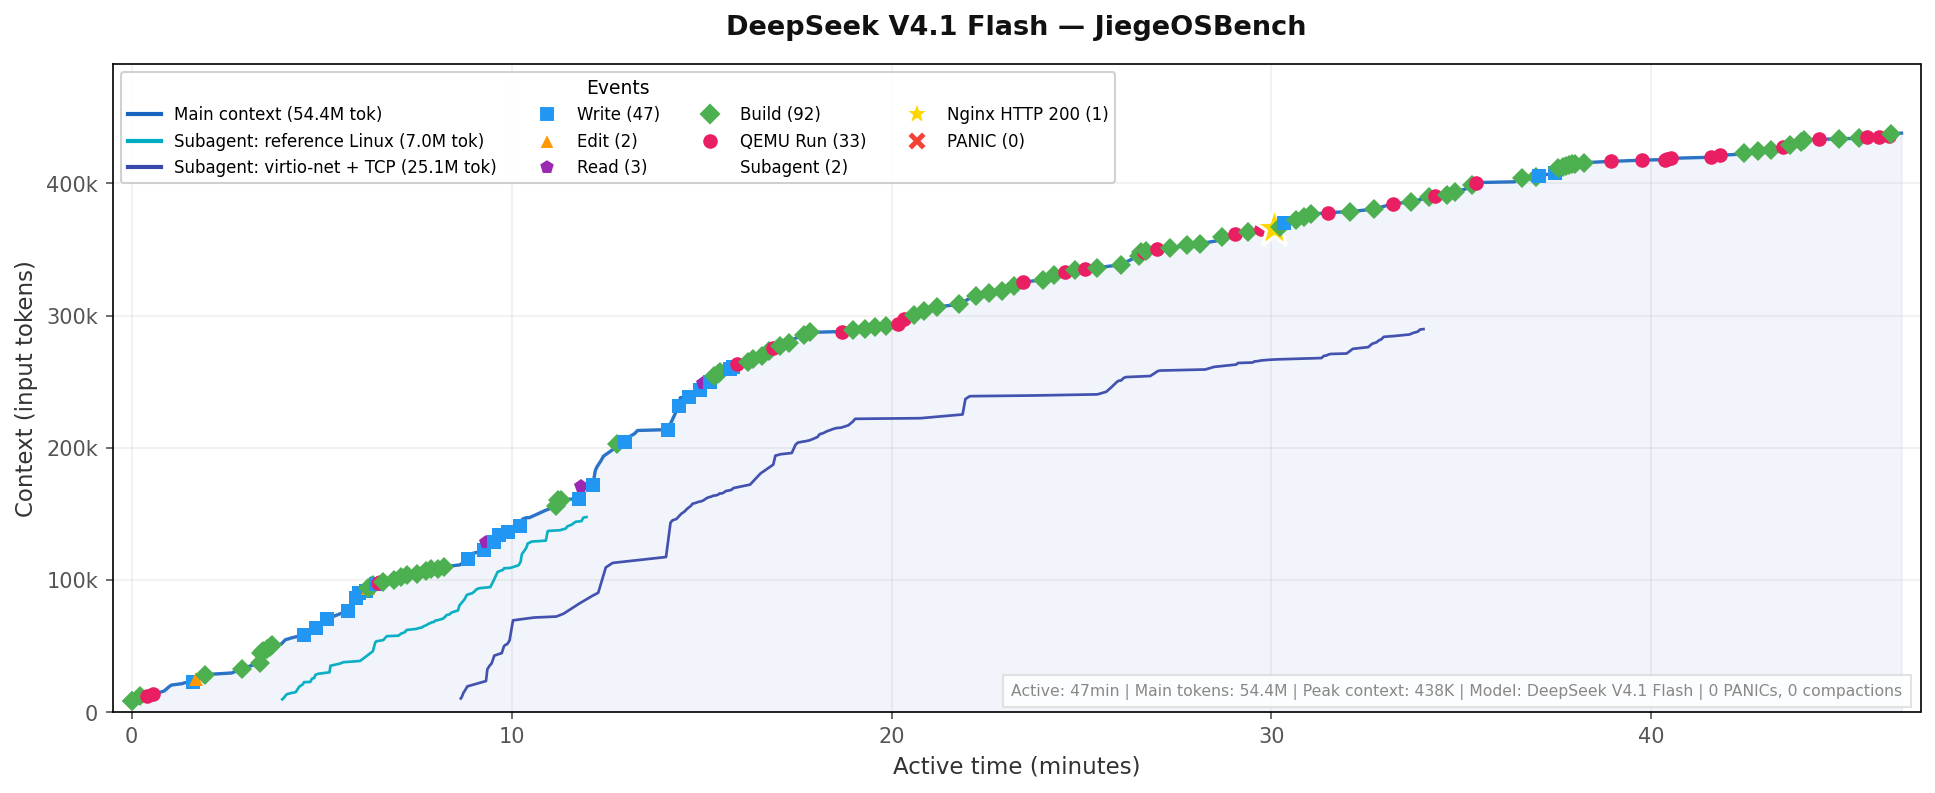
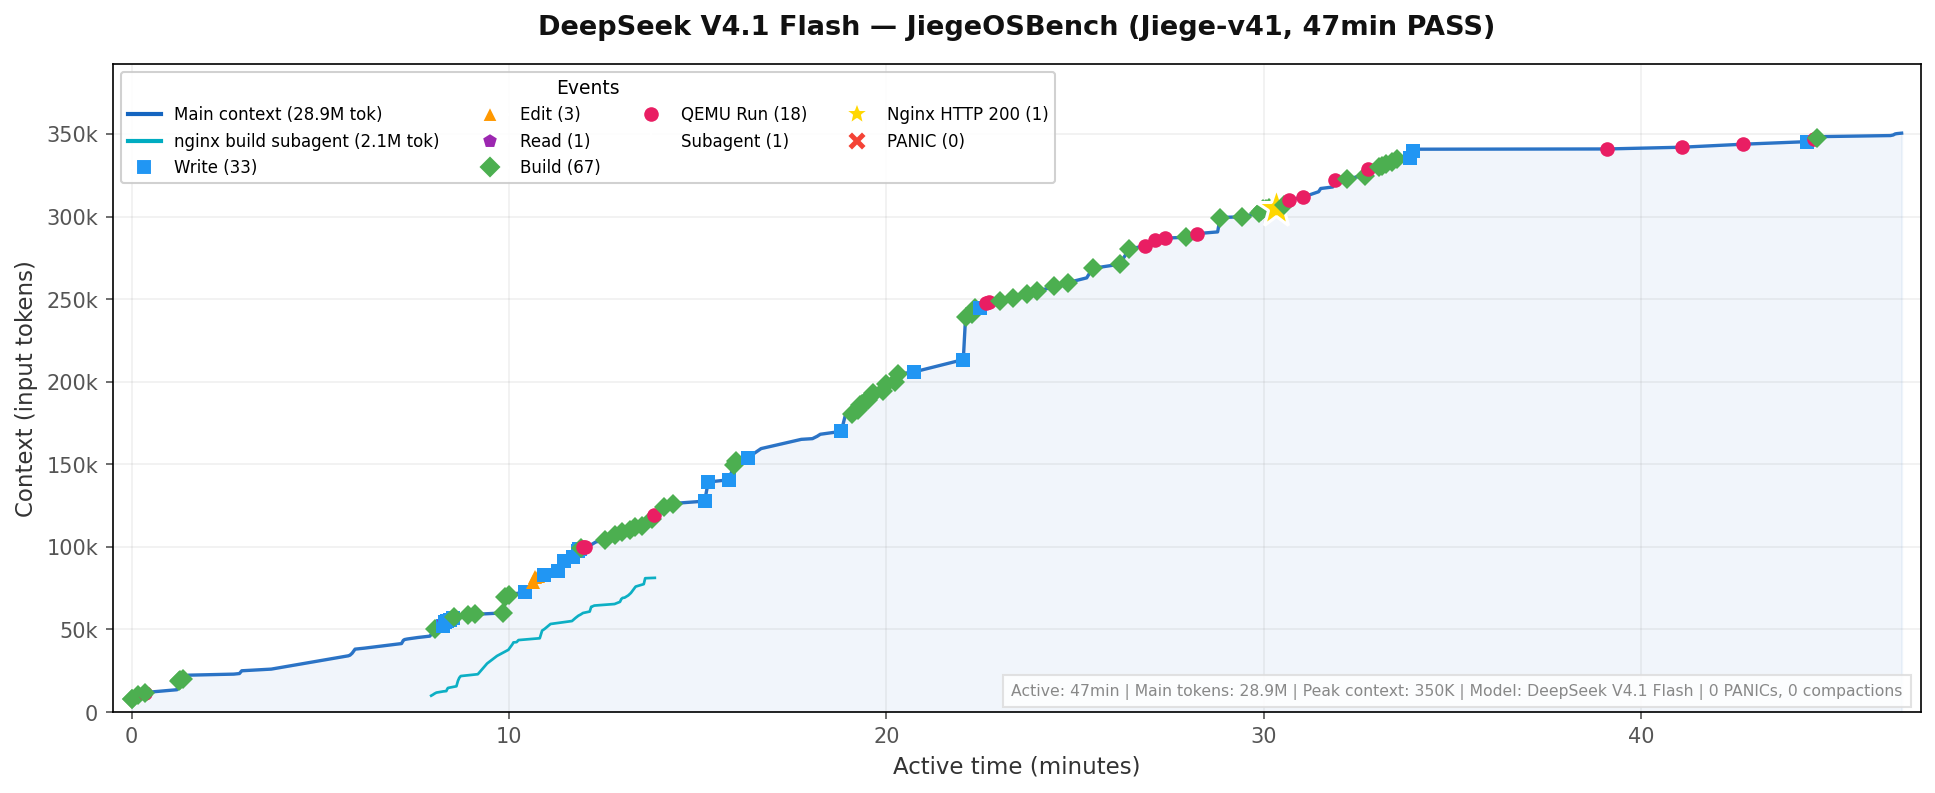
DeepSeek V4.1 Flash: replace the record with the 2026-09-10 static-musl run
New best run of the model: same 30min first HTTP 200 / 47min total, but
cheaper and leaner than the 2026-09-08 glibc run it replaces — $0.61 ->
$0.28, 438K -> 350K peak context, 126 -> 36 QEMU boots, 86.5M -> 31.0M
tokens, 437 -> 203 steps, still zero panics and zero compactions.

Took the static musl cross-compile route (official nginx 1.27.4 source
built by zig cc into one static riscv64 ELF) against a 6,283-line
from-scratch no_std Rust kernel, with a single background subagent
building nginx in 5.9min while the main agent wrote the kernel. Section
rewritten with the new run's milestones and a new timeline chart.

diff --git a/README.md b/README.md
@@ -16,7 +16,7 @@ OS kernel from scratch — running an unmodified Linux nginx binary on QEMU, ser
 | # | Model | Effort | Harness | First HTTP 200 | Total | Context | Cost | QEMU runs | Test date | Tier |
 |---|-------|--------|---------|------------|-------|---------|------|-----------|-----------|------|
 | 🏅 | GPT-6 Astra | High | Codex | 6min | 9min | 83K | $4 | 9 | 2026-09-05 | 👑 Jiege |
-| 🥈 | DeepSeek V4.1 Flash | High | DSH | 30min | 47min | 438K | $0.61 | 126 | 2026-09-08 | 🧠 Intelligent Jiege |
+| 🥈 | DeepSeek V4.1 Flash | High | DSH | 30min | 47min | 350K | $0.28 | 36 | 2026-09-10 | 🧠 Intelligent Jiege |
 | 🥉 | GPT 5.6 Sol | High | Codex | 33min | 49min | 222K | $14 | 29 | 2026-07-11 | 🧠 Intelligent Jiege |
 | 4 | Claude Fable 5 | High | CC | 35min | 41min | 155K | $21 | 4 | 2026-07-05 | 🧠 Intelligent Jiege |
 | 5 | Claude Opus 4.8 | High | CC | 40min | 42min | 230K | $12 | 19 | 2026-09-05 | 🧠 Intelligent Jiege |
@@ -66,24 +66,28 @@ OpenAI Codex (desktop) ran for **~6min** to first HTTP 200 — by far the fastes
 
 ![DeepSeek V4.1 Flash Timeline](figures/deepseek-v4.1-flash-timeline.png)
 
-DeepSeek Harness ran for **~47min** (first HTTP 200 at 30min) with the **standard agent preset** (write/edit/read available) — the fastest DeepSeek run by a wide margin, and the cheapest successful run on the board at **$0.61**. Two background subagents ran in parallel: one booted a reference riscv64 Linux in QEMU to strace the stock nginx (ground-truth syscall ABI), the other implemented the virtio-net + smoltcp TCP stack while the main agent wrote the filesystem, ELF loader, signal and syscall layers. 437 steps across the three agents, 86.5M tokens total, zero kernel panics, zero context compactions. Took the **Ubuntu glibc dynamic-linking route** — the unmodified Ubuntu 24.04 riscv64 nginx 1.24.0 binary (SHA-256 identical to the official `.deb`) running against glibc 2.39 + OpenSSL/PCRE2/zlib.
-
-**How the parallel agents avoided stepping on each other**: the main agent froze the `net` module's public API (16 signatures) and kept ownership of every other file, handing the subagent `kernel/src/net/` alone with the rule that `cargo build` must stay green at all times — no file was ever edited by both agents (the only contention was cargo's own build-directory lock). Because user mode could not run yet, that subagent verified its stack by injecting test code into a *scratch copy* of the kernel: the kernel fetched 300 KB from a host HTTP server over slirp (`GET / HTTP/1.0`) and, in a second test, listened on port 80 and answered a host `curl` — proving TX/RX rings, ARP, TCP handshake, arbitrary segmentation, EOF/FIN and PLIC IRQ delivery with no user-mode process involved. It also found that QEMU 11.1.1 exposes `virtio-net-device` as **legacy MMIO v1** by default (10-byte header, not 12), and implemented both transports.
+DeepSeek Harness ran for **~47min** (first HTTP 200 at 30min) with the **standard agent preset** (write/edit/read available) — the fastest DeepSeek run by a wide margin, and the cheapest successful run on the board at **$0.28**. 158 model steps, 31.0M tokens total (99.6% cache hit), peak context 350K, zero kernel panics, zero context compactions, zero web searches and zero git clones — the 6,283-line `no_std` Rust kernel (Sv39 paging, ELF64 loader, ~150 Linux asm-generic syscalls, ramfs + initramfs, virtio-net + smoltcp + epoll/eventfd/timerfd) is entirely its own. Took the **static musl cross-compile route**: the unmodified official nginx 1.27.4 source built with `zig cc -target riscv64-linux-musl` into a single static riscv64 ELF. It reached HTTP 200 in only ~36 QEMU boots — 12 hand-found bugs, no blind churn.
 
 | Time | Milestone |
 |------|-----------|
-| 00:04 | Reference riscv64 Linux env subagent launched — strace of the stock nginx as ground truth |
-| 00:07 | Kernel boots under QEMU; fs, ELF loader and syscall layers written |
-| 00:09 | virtio-net + TCP subagent launched; net stack built in parallel |
-| 00:16 | Kernel launches the unmodified Ubuntu nginx binary |
-| 00:18 | Boot-stack static and trap-frame prologue bugs fixed |
-| 00:22 | FP state (`sstatus.FS`) enabled and saved across context switches |
-| 00:24 | initramfs duplicate-directory and fork page-table-switch bugs fixed |
-| 00:29 | epoll_event layout bug fixed |
-| 00:30 | First HTTP 200 OK — `Server: nginx/1.24.0 (Ubuntu)` 🎉 |
-| 00:33 | SIGCHLD delivery + sigsuspend semantics fixed; graceful shutdown verified |
-| 00:44 | Scheduler starvation fixed (LIFO ready queue → FIFO) |
-| 00:47 | Goal complete — clean rebuild + binary byte-verification |
+| 00:01 | Environment recon, goal set — rustc + `riscv64gc-unknown-linux-musl` present, zig installable, crates.io reachable |
+| 00:03 | zig installed; nginx/pcre2/zlib sources fetched in the background |
+| 00:07 | `riscv64-cc` zig wrapper verified — static riscv64 musl ELF confirmed loadable at `0x1000000` |
+| 00:08 | nginx build handed to a background subagent; kernel skeleton written (boot, console, mm, fdt, arch, trap) |
+| 00:12 | First QEMU boot (`.bss` was wiping the boot stack; console remap and PLIC mapping fixed) |
+| 00:14 | Subagent delivers static nginx + config + index.html; main line writes fs, ELF loader, process layer |
+| 00:22 | 70KB `syscall.rs` (~150 calls, numbers from the Linux uapi header); virtio-net + smoltcp wired up |
+| 00:26 | Static test program runs end-to-end in user mode — ELF offset/flag, `TIOCGWINSZ`, `sstatus` SIE bugs fixed |
+| 00:27 | nginx parses its config and listens on `0.0.0.0:80` — host requests still time out |
+| 00:29 | `__alltraps` clobbered user `t0`; the virtio DMA address had `PHYS_OFFSET` subtracted from an identity-mapped pointer |
+| 00:30 | First HTTP 200 OK from host — `Server: nginx/1.27.4` 🎉 |
+| 00:32 | ABI probe run *on the kernel*: `epoll_event` is 16B with padding, not the packed 12B assumed — nginx crash fixed |
+| 00:33 | 12-listener pool (concurrent SYNs were RST by smoltcp's single listening socket); stress tests green |
+| 00:34 | Packaged: README, Makefile, `scripts/test.sh` end-to-end suite |
+| 00:41 | The suite stalls on the script's own bare `wait`, which also reaped the QEMU job — rewritten as per-PID waits |
+| 00:43 | 13/13 checks green from a clean rebuild, after fixing two bad assertions (host `readelf`, keep-alive `-o /dev/null`) |
+| 00:44 | Source-integrity check added — the build tree is re-diffed against the official nginx tarball |
+| 00:47 | `ALL 14 CHECKS PASSED`; goal complete — single commit, clean tree ✅ |
 
 ## Claude Fable 5 — 35min / 41min
 
@@ -228,7 +232,7 @@ Claude Code ran for **~2h 19min**. 151 API requests, 26.3M tokens total (includi
 
 ![GPT 5.6 Luna Timeline](figures/gpt56-luna-timeline.png)
 
-OpenAI Codex (desktop) ran for **~2h 45min** of active time (3h 19min wall-clock; 34.6min of API connection-retry gaps in the first 40 minutes excluded). First to take the full **glibc dynamic-linking route** against the official Debian nginx 1.30.1 binary — and succeed (matched later by DeepSeek V4.1 Flash). The early phase was the hardest: the glibc loader refused to resolve shared libraries until a stack of ABI bugs (auxv order, duplicate argc, fstat st_dev/st_ino collision) were fixed one by one. After dynamic linking succeeded at ~1h, nginx bound `0.0.0.0:80` on the first try and the finish was clean: 3 context compactions (pre-compaction peaks 243K each), 116M tokens total (input 60.1M + cache 55.6M), cost ~$2.3.
+OpenAI Codex (desktop) ran for **~2h 45min** of active time (3h 19min wall-clock; 34.6min of API connection-retry gaps in the first 40 minutes excluded). First to take the full **glibc dynamic-linking route** against the official Debian nginx 1.30.1 binary — and succeed (reproduced by DeepSeek V4.1 Flash on 2026-09-08). The early phase was the hardest: the glibc loader refused to resolve shared libraries until a stack of ABI bugs (auxv order, duplicate argc, fstat st_dev/st_ino collision) were fixed one by one. After dynamic linking succeeded at ~1h, nginx bound `0.0.0.0:80` on the first try and the finish was clean: 3 context compactions (pre-compaction peaks 243K each), 116M tokens total (input 60.1M + cache 55.6M), cost ~$2.3.
 
 | Time (active) | Milestone |
 |---------------|-----------|
@@ -356,7 +360,7 @@ Ran for **~6h 35min** with the harness's **minimal agent preset**. First HTTP 20
 
 ![DeepSeek V4 Pro Timeline](figures/deepseek-v4-pro-timeline.png)
 
-Ran for **~108min** of active time with the harness's **minimal agent preset**. First HTTP 200 at 105.6min. 373 model steps, 97.9M tokens total (99.9% cache hit), peak context 503K. Cost approximately **$0.86** — the cheapest DeepSeek run, edging out DeepSeek V4 Flash's $1.60 (until V4.1 Flash's $0.61). Zero kernel panics, zero context compactions. The static musl nginx binary was built in parallel by a background subagent (DeepSeek V4 Flash, 11.7M tokens, $0.09) while the main agent wrote the kernel from scratch; two web searches (musl TLS layout, QEMU virtio MMIO) were technical lookups, not solution-finding.
+Ran for **~108min** of active time with the harness's **minimal agent preset**. First HTTP 200 at 105.6min. 373 model steps, 97.9M tokens total (99.9% cache hit), peak context 503K. Cost approximately **$0.86** — the cheapest DeepSeek run, edging out DeepSeek V4 Flash's $1.60 (until V4.1 Flash's $0.28). Zero kernel panics, zero context compactions. The static musl nginx binary was built in parallel by a background subagent (DeepSeek V4 Flash, 11.7M tokens, $0.09) while the main agent wrote the kernel from scratch; two web searches (musl TLS layout, QEMU virtio MMIO) were technical lookups, not solution-finding.
 
 | Time | Milestone |
 |------|-----------|
